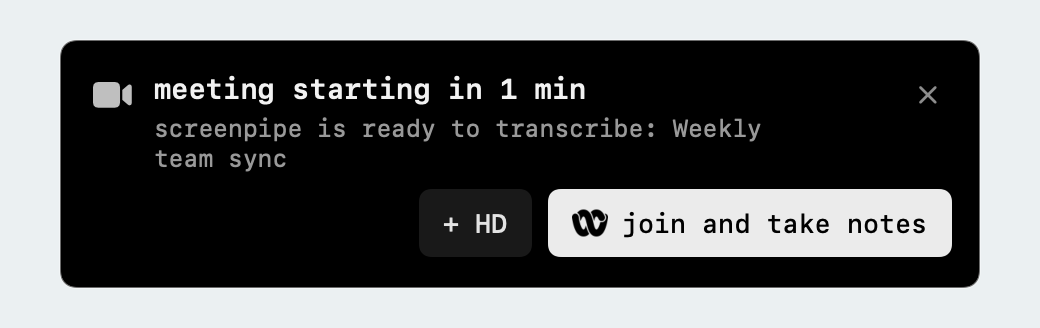
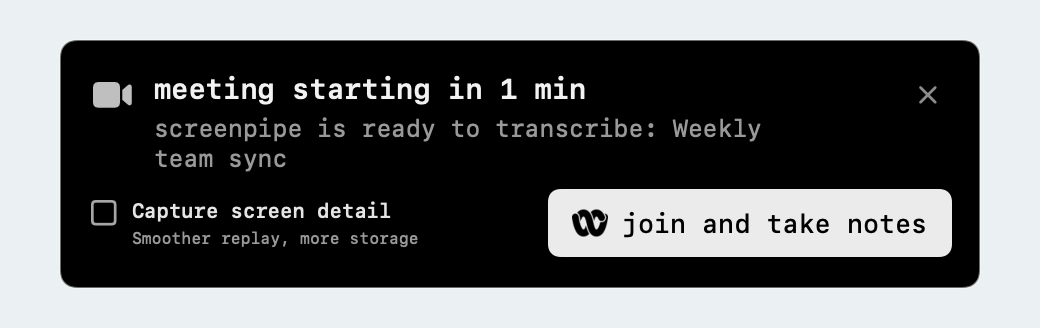
Make screen detail an optional part of joining a meeting

Changed region(s): [[0.0615, 0.5793, 0.5231, 0.7927]]

diff --git a/apps/screenpipe-app-tauri/src-tauri/swift/shortcut_reminder.swift b/apps/screenpipe-app-tauri/src-tauri/swift/shortcut_reminder.swift
@@ -208,6 +208,7 @@ struct OverlayNotificationAction: Identifiable, Equatable {
     let primary: Bool
     let payload: String
     let meetingProvider: MeetingJoinProvider?
+    let screenDetailBody: String?
 }
 
 /// A notification rendered as an extension of the pill rather than as a
@@ -227,6 +228,29 @@ struct OverlayNotification: Equatable {
         )
     }
 
+    var screenDetailAction: OverlayNotificationAction? {
+        actions.first { $0.screenDetailBody != nil }
+    }
+
+    /// One dispatch joins the call and, only when selected, starts screen detail
+    /// first. Toggling the option itself never sends an action or dismisses.
+    func joining(_ action: OverlayNotificationAction, captureScreenDetail: Bool) -> OverlayNotificationAction {
+        guard captureScreenDetail, action.meetingProvider != nil,
+              let body = screenDetailAction?.screenDetailBody,
+              let bodyData = body.data(using: .utf8),
+              let detail = try? JSONSerialization.jsonObject(with: bodyData),
+              let data = action.payload.data(using: .utf8),
+              var payload = (try? JSONSerialization.jsonObject(with: data)) as? [String: Any]
+        else { return action }
+        payload["screen_detail"] = detail
+        guard let updated = try? JSONSerialization.data(withJSONObject: payload),
+              let json = String(data: updated, encoding: .utf8) else { return action }
+        return OverlayNotificationAction(
+            id: action.id, label: action.label, primary: action.primary,
+            payload: json, meetingProvider: action.meetingProvider, screenDetailBody: nil
+        )
+    }
+
     static func parse(_ json: String) -> OverlayNotification? {
         guard let data = json.data(using: .utf8),
               let root = (try? JSONSerialization.jsonObject(with: data)) as? [String: Any],
@@ -243,6 +267,16 @@ struct OverlayNotification: Equatable {
             guard let payloadData = try? JSONSerialization.data(withJSONObject: action),
                   let payload = String(data: payloadData, encoding: .utf8)
             else { return nil }
+            let screenDetailBody: String?
+            if action["type"] as? String == "api",
+               action["url"] as? String == "/capture/hd/start",
+               action["method"] as? String == "POST",
+               let body = action["body"] as? [String: Any],
+               let encoded = try? JSONSerialization.data(withJSONObject: body) {
+                screenDetailBody = String(data: encoded, encoding: .utf8)
+            } else {
+                screenDetailBody = nil
+            }
             return OverlayNotificationAction(
                 id: actionId,
                 label: label,
@@ -250,7 +284,8 @@ struct OverlayNotification: Equatable {
                 payload: payload,
                 meetingProvider: action["type"] as? String == "meeting_join"
                     ? MeetingJoinProvider.from(url: action["url"] as? String ?? "")
-                    : nil
+                    : nil,
+                screenDetailBody: screenDetailBody
             )
         }
 
@@ -1613,6 +1648,26 @@ private struct DockStatusCell<Content: View>: View {
     }
 }
 
+/// SwiftUI-drawn checkbox keeps contrast and focus visible on the dark card.
+@available(macOS 13.0, *)
+private struct ScreenDetailToggleStyle: ToggleStyle {
+    let scale: CGFloat
+
+    func makeBody(configuration: Configuration) -> some View {
+        Button(action: { configuration.isOn.toggle() }) {
+            HStack(alignment: .top, spacing: 6 * scale) {
+                Image(systemName: configuration.isOn ? "checkmark.square.fill" : "square")
+                    .font(.system(size: 14 * scale, weight: .medium))
+                    .foregroundColor(.white.opacity(configuration.isOn ? 0.95 : 0.65))
+                configuration.label
+            }
+            .contentShape(Rectangle())
+        }
+        .buttonStyle(.plain)
+        .accessibilityValue(uiText(configuration.isOn ? "On" : "Off"))
+    }
+}
+
 /// Notification rendered as an extension of the pill. Deliberately shaped like
 /// the pill's other surfaces (transcript preview, disclosure) rather than the
 /// standalone notification panel, so it reads as the overlay speaking up.
@@ -1623,6 +1678,7 @@ private struct OverlayNotificationView: View {
     let scale: CGFloat
     let onAction: (OverlayNotificationAction) -> Void
     let onDismiss: () -> Void
+    @State var captureScreenDetail = false
 
     private func s(_ value: CGFloat) -> CGFloat { value * scale }
 
@@ -1670,6 +1726,22 @@ private struct OverlayNotificationView: View {
                 dismissButton
             }
             HStack(spacing: s(8)) {
+                if notification.screenDetailAction != nil {
+                    Toggle(isOn: $captureScreenDetail) {
+                        VStack(alignment: .leading, spacing: s(2)) {
+                            Text(uiText("Capture screen detail"))
+                                .font(Brand.swiftUIMonoFont(size: 10 * scale, weight: .medium))
+                                .foregroundColor(.white.opacity(0.9))
+                            Text(uiText("Smoother replay, more storage"))
+                                .font(Brand.swiftUIMonoFont(size: 8 * scale))
+                                .foregroundColor(.white.opacity(0.60))
+                        }
+                    }
+                    .toggleStyle(ScreenDetailToggleStyle(scale: scale))
+                    .help(uiText("Capture your screen more frequently during this meeting. Starts when you click Join."))
+                    .accessibilityLabel(uiText("Capture screen detail when joining"))
+                    .fixedSize()
+                }
                 Spacer(minLength: 0)
                 actionButtons
             }
@@ -1704,8 +1776,10 @@ private struct OverlayNotificationView: View {
     }
 
     private var actionButtons: some View {
-        ForEach(orderedActions) { action in
-            Button(action: { onAction(action) }) {
+        ForEach(orderedActions.filter { !notification.isMeetingJoin || $0.screenDetailBody == nil }) { action in
+            Button(action: {
+                onAction(notification.joining(action, captureScreenDetail: captureScreenDetail))
+            }) {
                 HStack(spacing: s(7)) {
                     if let provider = action.meetingProvider {
                         if let image = provider.image {
@@ -3371,6 +3445,7 @@ class ShortcutReminderController: NSObject, NSWindowDelegate {
             },
             onDismiss: { [weak self] in self?.dismissOverlayNotification() }
         )
+        .id(notification.id) // A new meeting must not inherit a previous opt-in.
         if let hosting = notificationHostingView {
             hosting.rootView = AnyView(view)
         } else {

diff --git a/apps/screenpipe-app-tauri/src-tauri/swift/shortcut_reminder_tests.swift b/apps/screenpipe-app-tauri/src-tauri/swift/shortcut_reminder_tests.swift
@@ -608,6 +608,26 @@ private func testMeetingProviderIcons() {
     expect(parsed.actions[1].meetingProvider == nil, "HD action must not get a meeting icon")
 }
 
+private func testJoinScreenDetailChoice() {
+    let json = """
+    {"id":"choice","title":"meeting starting","actions":[{"id":"join-meeting","label":"join and take notes","type":"meeting_join","url":"https://meet.google.com/example","primary":true},{"id":"record-hd","action":"record-hd","label":"+ HD","type":"api","url":"/capture/hd/start","method":"POST","body":{"boundTo":"prewarm_pending"}}]}
+    """
+    let notification = OverlayNotification.parse(json)!
+    let join = notification.actions[0]
+    expect(notification.screenDetailAction != nil, "HD eligibility must expose the option")
+    expect(notification.joining(join, captureScreenDetail: false) == join, "ordinary Join must not enable screen detail")
+    let combined = notification.joining(join, captureScreenDetail: true)
+    let payload = try! JSONSerialization.jsonObject(with: Data(combined.payload.utf8)) as! [String: Any]
+    expect(payload["type"] as? String == "meeting_join", "selected option must still join")
+    expect(payload["url"] as? String == "https://meet.google.com/example", "combined Join lost the call URL")
+    expect((payload["screen_detail"] as? [String: Any])?["boundTo"] as? String == "prewarm_pending", "combined Join lost capture scope")
+    expect(combined.meetingProvider == .googleMeet, "combined Join lost its icon")
+    let withoutHD = OverlayNotification.parse(json.replacingOccurrences(of: "/capture/hd/start", with: "/unrelated"))!
+    expect(withoutHD.screenDetailAction == nil, "unrelated API action must not become a capture setting")
+    expect(withoutHD.joining(withoutHD.actions[0], captureScreenDetail: true) == withoutHD.actions[0], "capture cannot be added without the offered HD action")
+    expect(notification.joining(notification.actions[1], captureScreenDetail: true) == notification.actions[1], "non-join actions must stay unchanged")
+}
+
 @main
 struct ShortcutReminderTests {
     static func main() {
@@ -627,6 +647,7 @@ struct ShortcutReminderTests {
         testTieBreaksToCurrent()
         testAttachmentStacking()
         testAttachmentStaysOnScreen()
+        testJoinScreenDetailChoice()
         testMeetingProviderIcons()
         testMeetingJoinNotification()
         testWireContract()

diff --git a/apps/screenpipe-app-tauri/src-tauri/src/commands/native_actions.rs b/apps/screenpipe-app-tauri/src-tauri/src/commands/native_actions.rs
@@ -657,6 +657,28 @@ fn native_notif_action_callback_inner(json_ptr: *const std::os::raw::c_char) {
     dispatch_notification_action(json);
 }
 
+/// The optional join setting uses the same authenticated local endpoint as
+/// the HD action. Bound the wait so recording trouble cannot strand joining.
+fn start_meeting_join_screen_detail(
+    api: &crate::recording::LocalApiContext,
+    body: &serde_json::Value,
+) -> Result<(), String> {
+    let client = reqwest::blocking::Client::builder()
+        .timeout(std::time::Duration::from_secs(3))
+        .redirect(reqwest::redirect::Policy::none())
+        .build()
+        .map_err(|e| e.to_string())?;
+    let response = api
+        .apply_auth_blocking(client.post(api.url("/capture/hd/start")).json(body))
+        .send()
+        .map_err(|e| e.to_string())?;
+    if response.status().is_success() {
+        Ok(())
+    } else {
+        Err(format!("HTTP {}", response.status()))
+    }
+}
+
 /// Run one notification action. Shared by the standalone notification panel and
 /// by notifications the shortcut overlay renders itself, so a meeting alert
 /// behaves identically whichever surface showed it.
@@ -899,14 +921,37 @@ pub(crate) fn dispatch_notification_action(json: String) {
             return;
         };
 
+        let screen_detail = parsed
+            .as_ref()
+            .and_then(|v| v.get("screen_detail"))
+            .filter(|v| v.is_object())
+            .cloned();
         let app_clone = app.clone();
         std::thread::spawn(move || {
             use tauri_plugin_opener::OpenerExt;
+            let capture_error = screen_detail.and_then(|body| {
+                let api = crate::recording::local_api_context_from_app(&app_clone);
+                start_meeting_join_screen_detail(&api, &body).err()
+            });
             if let Err(e) = app_clone.opener().open_url(&meeting_url, None::<&str>) {
                 error!(
                     "failed to open meeting url '{}' from notification: {}",
                     meeting_url, e
                 );
+            }
+
+            if let Some(error) = capture_error {
+                warn!("meeting join screen detail failed: {}", error);
+                let _ = app_clone.run_on_main_thread(|| {
+                    native_notification::show(&serde_json::json!({
+                        "id": "meeting-screen-detail-failed",
+                        "type": "warning",
+                        "title": crate::localization::ui_text("Screen detail could not start"),
+                        "body": crate::localization::ui_text("You can still join your meeting normally."),
+                        "actions": [],
+                        "autoDismissMs": 12000,
+                    }).to_string());
+                });
             }
 
             let Some(deeplink_url) = deeplink_url else {
@@ -1591,9 +1636,70 @@ mod tests {
         artifact_request_from_notification_url, chat_prefill_payload_from_action,
         native_overlay_meeting_note_id, notification_copy_value, notification_deeplink_target,
         notification_source_url, parse_meeting_deeplink, parse_overlay_anchor,
-        resolve_timeline_event_target, viewer_path_from_notification_url, SHORTCUT_OVERLAY_ANCHORS,
+        resolve_timeline_event_target, start_meeting_join_screen_detail,
+        viewer_path_from_notification_url, SHORTCUT_OVERLAY_ANCHORS,
     };
     use serde_json::json;
+
+    #[test]
+    fn meeting_join_screen_detail_posts_authenticated_scope_and_reports_failures() {
+        use std::io::{Read, Write};
+        use std::net::TcpListener;
+        for (status, succeeds) in [
+            ("200 OK", true),
+            ("503 Service Unavailable", false),
+            ("302 Found", false),
+        ] {
+            let listener = TcpListener::bind("127.0.0.1:0").unwrap();
+            let port = listener.local_addr().unwrap().port();
+            let server = std::thread::spawn(move || {
+                let (mut stream, _) = listener.accept().unwrap();
+                stream
+                    .set_read_timeout(Some(std::time::Duration::from_secs(5)))
+                    .unwrap();
+                let mut request = Vec::new();
+                let mut buffer = [0; 1024];
+                loop {
+                    let count = stream.read(&mut buffer).unwrap();
+                    assert!(count > 0);
+                    request.extend_from_slice(&buffer[..count]);
+                    if let Some(header_end) = request.windows(4).position(|w| w == b"\r\n\r\n") {
+                        let headers =
+                            String::from_utf8_lossy(&request[..header_end]).to_lowercase();
+                        let length: usize = headers
+                            .lines()
+                            .find_map(|line| line.strip_prefix("content-length: "))
+                            .unwrap()
+                            .parse()
+                            .unwrap();
+                        if request.len() >= header_end + 4 + length {
+                            assert!(headers.starts_with("post /capture/hd/start http/1.1"));
+                            assert!(headers.contains("authorization: bearer test-key"));
+                            let body: serde_json::Value =
+                                serde_json::from_slice(&request[header_end + 4..]).unwrap();
+                            assert_eq!(body, json!({"boundTo": "prewarm_pending"}));
+                            break;
+                        }
+                    }
+                }
+                write!(
+                    stream,
+                    "HTTP/1.1 {status}\r\nContent-Length: 2\r\nConnection: close\r\n\r\n{{}}"
+                )
+                .unwrap();
+            });
+            let api = crate::recording::LocalApiContext {
+                api_key: Some("test-key".into()),
+                port,
+            };
+            assert_eq!(
+                start_meeting_join_screen_detail(&api, &json!({"boundTo": "prewarm_pending"}))
+                    .is_ok(),
+                succeeds
+            );
+            server.join().unwrap();
+        }
+    }
 
     #[test]
     fn viewer_path_parses_view_deeplinks() {
